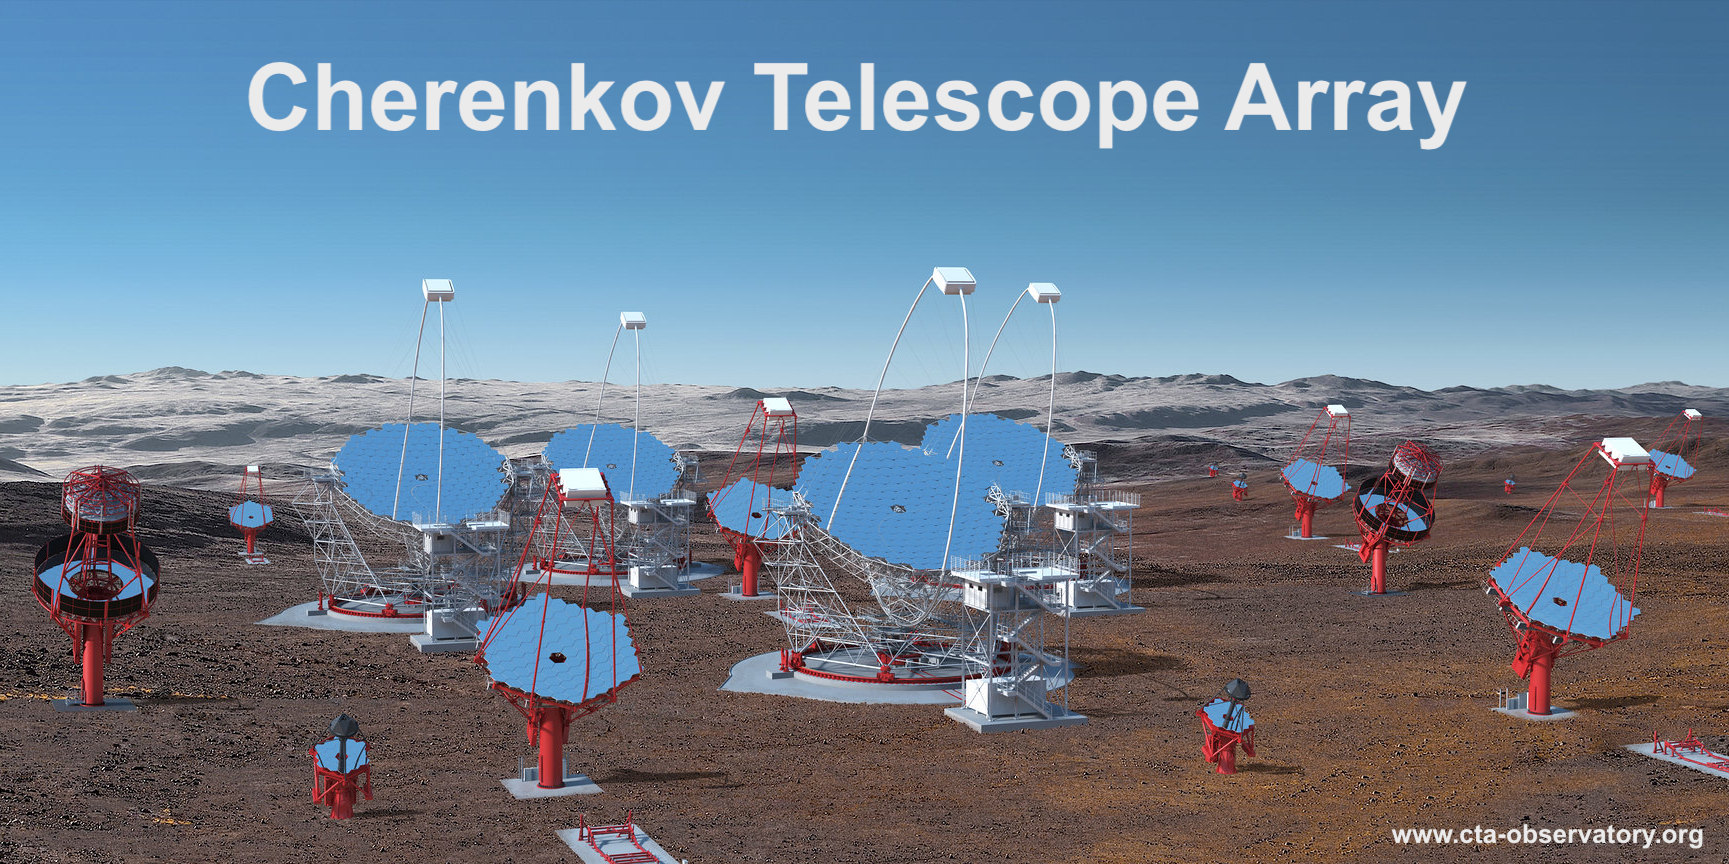
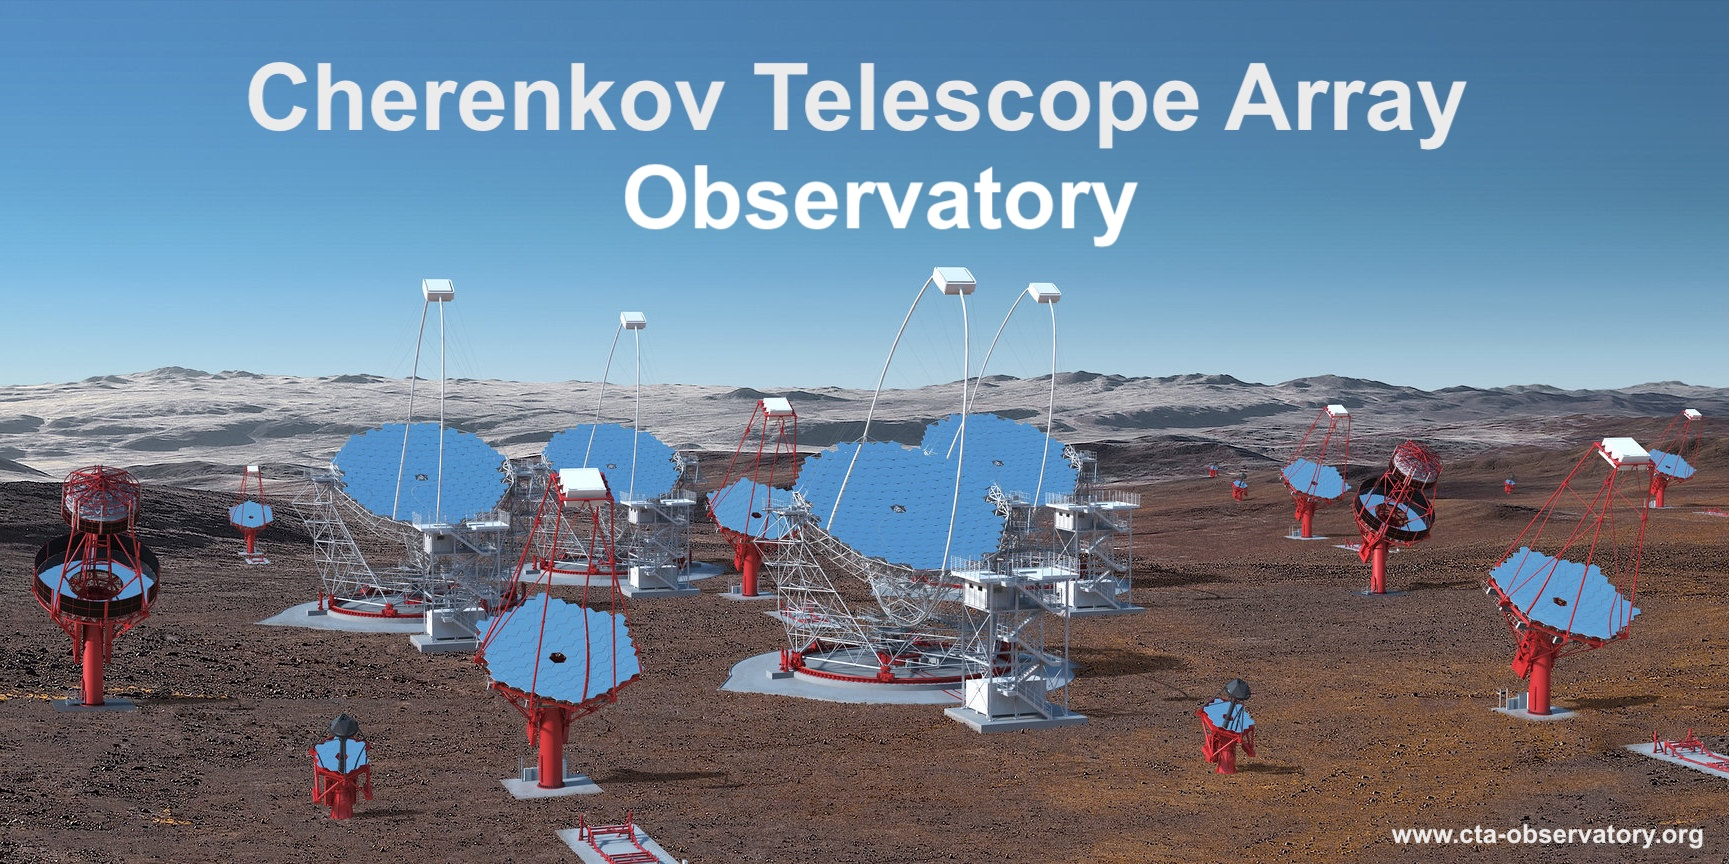
CTA is CTAO now

diff --git a/_includes/home/home.html b/_includes/home/home.html
@@ -1,4 +1,4 @@
 Hello, and welcome to my personal web page!
 I am a researcher in high-energy astrophysics, currently working at the <a href="https://www.mpi-hd.mpg.de" target="_blank">Max Planck Institute for Nuclear Physics</a> in Heidelberg.<br>
 My main interest is the study of Galactic sources of high-energy gamma rays.<br>
-I am an active member of the <a href="https://www.mpi-hd.mpg.de/hfm/HESS" target="_blank">H.E.S.S.</a> and <a href="https://www.cta-observatory.org" target="_blank">CTA</a> projects.
+I am an active member of the <a href="https://www.mpi-hd.mpg.de/hfm/HESS" target="_blank">H.E.S.S.</a> and <a href="https://www.ctao.org" target="_blank">CTAO</a> projects.

diff --git a/_research_experiments/cta.md b/_research_experiments/cta.md
@@ -1,14 +1,14 @@
 ---
 layout: post
-title: CTA
+title: CTAO
 feature-img: "assets/img/research_experiments/cta/cta_banner.jpg"
 img: "assets/img/research_experiments/cta/cta_array_thumb.jpg"
 id: 2
 ---
 
-#### Cherenkov Telescope Array
+#### Cherenkov Telescope Array Observatory
 
-CTA is *the* major upcoming facility for the study of very-high-energy gamma rays.
+CTAO is *the* major upcoming facility for the study of very-high-energy gamma rays.
 It uses [the same detection principle as H.E.S.S.]({% link _research_experiments/hess.md %}) - just with a lot more telescopes.
 This allows both the observation of fainter sources as well as more precise measurements of the gamma-ray emission.
 To be able to observe sources on the entire sky, it will be build on two sites: one on the Northern Hemisphere, on La Palma island, Spain, and one on the Southern Hemisphere, in Paranal, Chile.
@@ -16,21 +16,21 @@ To be able to observe sources on the entire sky, it will be build on two sites: 
 Below is a rendering of the Northern site on La Palma.
 It will feature 13 telescopes of two sizes: four "large-size" telescopes with 23-m diameter mirrors and nine "medium-size" telescopes with 12-m mirrors.
 
-<div><img src="/assets/img/research_experiments/cta/cta_north.jpg" alt="CTA North" width="1000" align="center" style="padding-top:1%;padding-left:2%;padding-right:2%;padding-bottom:2%"></div>
+<div><img src="/assets/img/research_experiments/cta/cta_north.jpg" alt="CTAO North" width="1000" align="center" style="padding-top:1%;padding-left:2%;padding-right:2%;padding-bottom:2%"></div>
 
 The array at the Southern site, illustrated below, will be even larger.
 It will consist of more than 50 telescopes, and include a third type: the "small-size" telescopes.
 
-<div><img src="/assets/img/research_experiments/cta/cta_south.jpg" alt="CTA South" width="1000" align="center" style="padding-top:1%;padding-left:2%;padding-right:2%;padding-bottom:2%"></div>
+<div><img src="/assets/img/research_experiments/cta/cta_south.jpg" alt="CTAO South" width="1000" align="center" style="padding-top:1%;padding-left:2%;padding-right:2%;padding-bottom:2%"></div>
 
 The telescopes of different sizes are necessary to cover a range of gamma-ray energies as broad as possible.
 Low-energy gamma rays produce faint signals, which can only be detected with very large telescopes - but because they are common enough, it suffices to cover with the telescopes a relatively small area on the ground.
 On the other hand, high-energy gamma rays produce so much light that one can measure them with small telescopes - however, since they are very rare, one needs to place many of them over a large area to collect enough of them.
 
-One of my constributions to CTA has been in the <a href="https://ui.adsabs.harvard.edu/abs/2019APh...111...35A/abstract" target="_blank">design of the array layout</a>, which has been optimised based on intensive Monte-Carlo simulations.
+One of my constributions to CTAO has been in the <a href="https://ui.adsabs.harvard.edu/abs/2019APh...111...35A/abstract" target="_blank">design of the array layout</a>, which has been optimised based on intensive Monte-Carlo simulations.
 
 <u>Further information:</u>
 
-<a href="https://www.cta-observatory.org" target="_blank">CTA Observatory web pages</a>
+<a href="https://www.ctao.org" target="_blank">CTAO web pages</a>
 
-<p style="font-size:9pt;margin-top:2cm;">Image credits: CTA Observatory.</p>
+<p style="font-size:9pt;margin-top:2cm;">Image credits: CTAO.</p>

diff --git a/pages/research.md b/pages/research.md
@@ -10,7 +10,7 @@ tags: []
 
 <!-- #### Experiments -->
 <h4 style="color:firebrick">Experiments</h4>
-I currently work with the High Energy Stereoscopic System (H.E.S.S.) and the Cherenkov Telescope Array (CTA).<br>
+I currently work with the High Energy Stereoscopic System (H.E.S.S.) and the Cherenkov Telescope Array Observatory (CTAO).<br>
 Click on the images to learn more!
 
 {% include research_experiments.html %}
